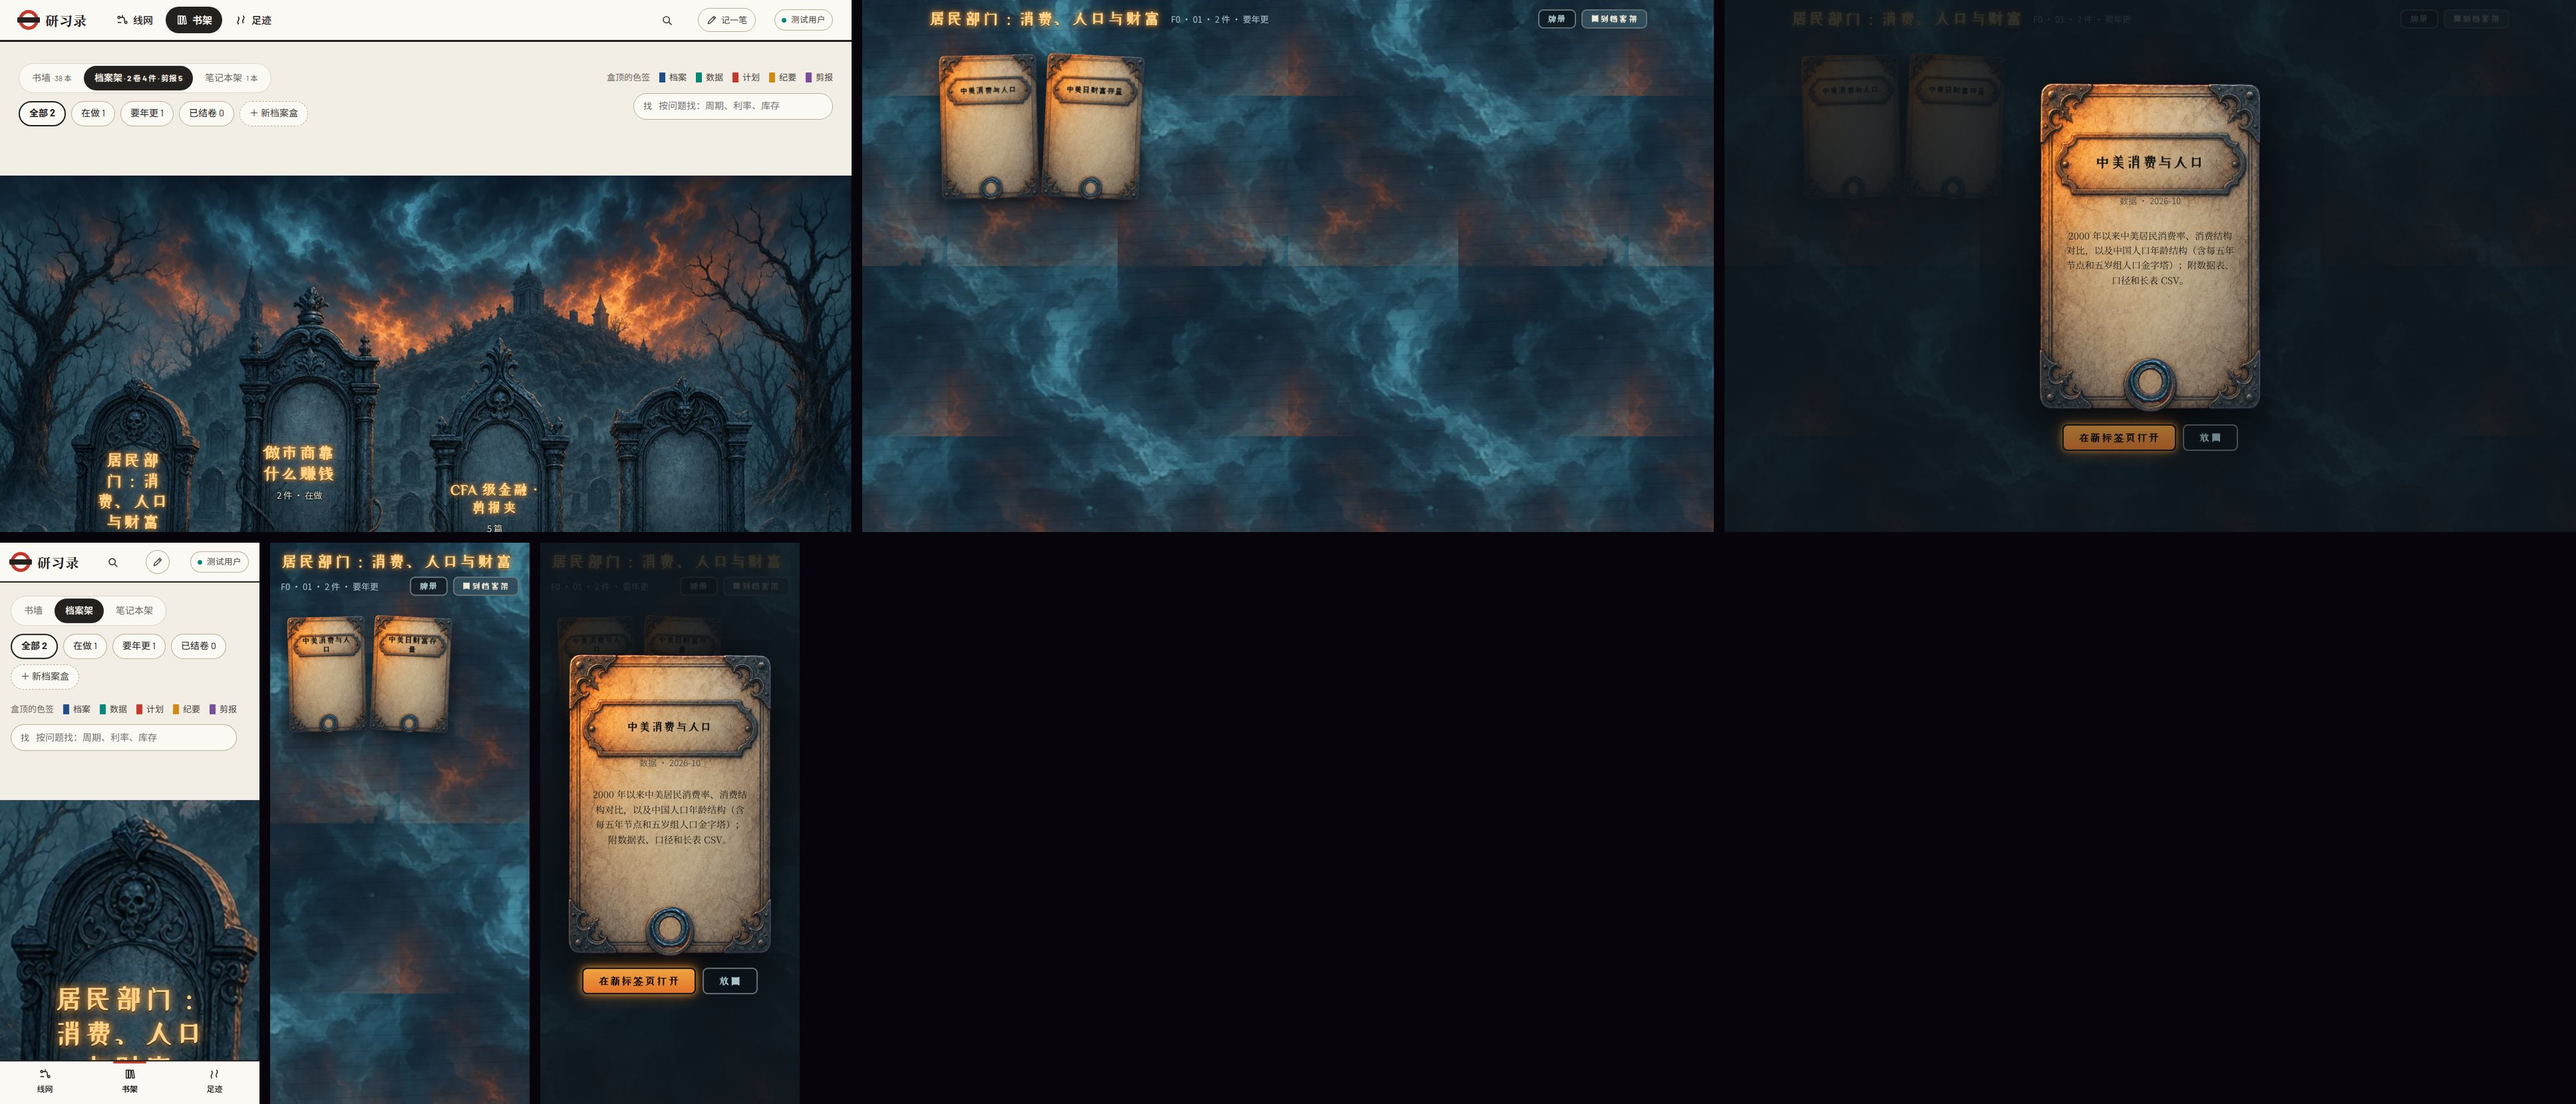
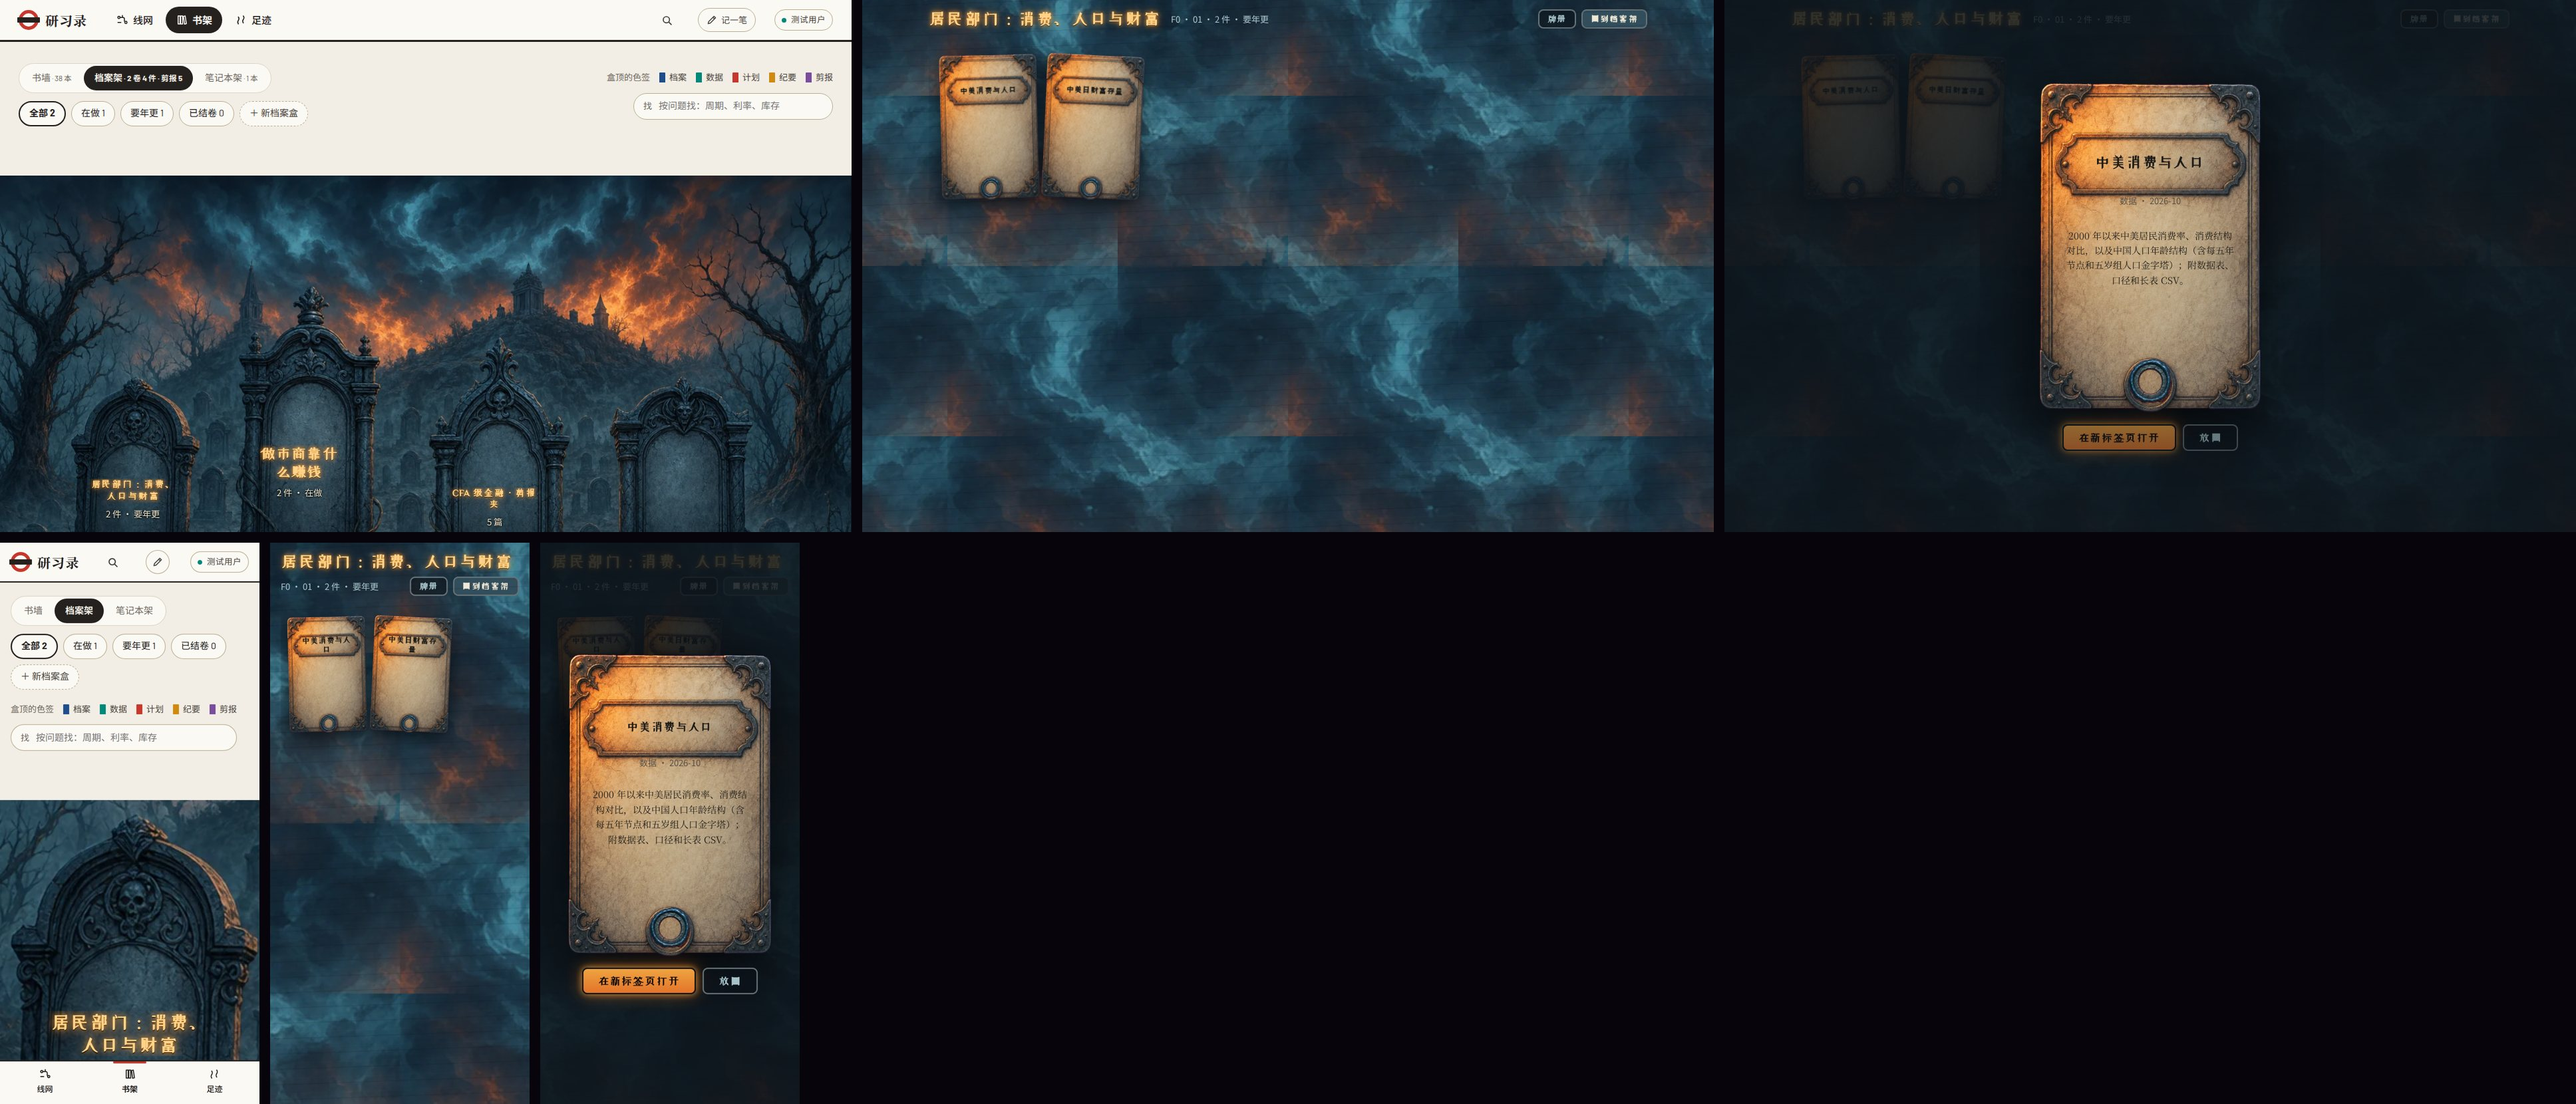
碑面刻名按字数缩字号，截图重出

diff --git a/dist/artifact.html b/dist/artifact.html
@@ -10694,7 +10694,8 @@ var FOIL = (function () {
     var top = narrow ? YX.arch.band[0] : 0, bh = narrow ? YX.arch.band[1] : YX.scene.h;
     function stone(st, j) {
       var p = P[j];
-      return '<button type="button" class="yx-stone' + (st.folder ? " folder" : "") + '" data-act="abox" data-t="' + esc(st.t) + '" style="left:' + p[0] + "px;top:" + (p[1] - top) + "px;width:" + (p[2] - p[0]) + "px;height:" + (p[3] - p[1]) + "px;--i:" + (n++) + '"><span class="yx-stone-n">' + esc(st.name) + '</span><span class="yx-stone-s">' + esc(st.sub) + "</span></button>";
+      var L = String(st.name).length, fs = L <= 4 ? 32 : L <= 8 ? 26 : L <= 12 ? 21 : 17;
+      return '<button type="button" class="yx-stone' + (st.folder ? " folder" : "") + '" data-act="abox" data-t="' + esc(st.t) + '" style="left:' + p[0] + "px;top:" + (p[1] - top) + "px;width:" + (p[2] - p[0]) + "px;height:" + (p[3] - p[1]) + "px;--i:" + (n++) + '"><span class="yx-stone-n" style="font-size:' + fs + 'px">' + esc(st.name) + '</span><span class="yx-stone-s">' + esc(st.sub) + "</span></button>";
     }
     var html = blocks.map(function (bl) {
       var cab = '<div class="yx-cab arch" data-bh="' + bh + '" style="width:' + YX.scene.w + "px;height:" + bh + "px;background-position:0 -" + top + 'px">' + bl.map(stone).join("") + "</div>";

diff --git a/index.html b/index.html
@@ -10702,7 +10702,8 @@ var FOIL = (function () {
     var top = narrow ? YX.arch.band[0] : 0, bh = narrow ? YX.arch.band[1] : YX.scene.h;
     function stone(st, j) {
       var p = P[j];
-      return '<button type="button" class="yx-stone' + (st.folder ? " folder" : "") + '" data-act="abox" data-t="' + esc(st.t) + '" style="left:' + p[0] + "px;top:" + (p[1] - top) + "px;width:" + (p[2] - p[0]) + "px;height:" + (p[3] - p[1]) + "px;--i:" + (n++) + '"><span class="yx-stone-n">' + esc(st.name) + '</span><span class="yx-stone-s">' + esc(st.sub) + "</span></button>";
+      var L = String(st.name).length, fs = L <= 4 ? 32 : L <= 8 ? 26 : L <= 12 ? 21 : 17;
+      return '<button type="button" class="yx-stone' + (st.folder ? " folder" : "") + '" data-act="abox" data-t="' + esc(st.t) + '" style="left:' + p[0] + "px;top:" + (p[1] - top) + "px;width:" + (p[2] - p[0]) + "px;height:" + (p[3] - p[1]) + "px;--i:" + (n++) + '"><span class="yx-stone-n" style="font-size:' + fs + 'px">' + esc(st.name) + '</span><span class="yx-stone-s">' + esc(st.sub) + "</span></button>";
     }
     var html = blocks.map(function (bl) {
       var cab = '<div class="yx-cab arch" data-bh="' + bh + '" style="width:' + YX.scene.w + "px;height:" + bh + "px;background-position:0 -" + top + 'px">' + bl.map(stone).join("") + "</div>";

diff --git a/server/index.html b/server/index.html
@@ -10849,7 +10849,8 @@ var FOIL = (function () {
     var top = narrow ? YX.arch.band[0] : 0, bh = narrow ? YX.arch.band[1] : YX.scene.h;
     function stone(st, j) {
       var p = P[j];
-      return '<button type="button" class="yx-stone' + (st.folder ? " folder" : "") + '" data-act="abox" data-t="' + esc(st.t) + '" style="left:' + p[0] + "px;top:" + (p[1] - top) + "px;width:" + (p[2] - p[0]) + "px;height:" + (p[3] - p[1]) + "px;--i:" + (n++) + '"><span class="yx-stone-n">' + esc(st.name) + '</span><span class="yx-stone-s">' + esc(st.sub) + "</span></button>";
+      var L = String(st.name).length, fs = L <= 4 ? 32 : L <= 8 ? 26 : L <= 12 ? 21 : 17;
+      return '<button type="button" class="yx-stone' + (st.folder ? " folder" : "") + '" data-act="abox" data-t="' + esc(st.t) + '" style="left:' + p[0] + "px;top:" + (p[1] - top) + "px;width:" + (p[2] - p[0]) + "px;height:" + (p[3] - p[1]) + "px;--i:" + (n++) + '"><span class="yx-stone-n" style="font-size:' + fs + 'px">' + esc(st.name) + '</span><span class="yx-stone-s">' + esc(st.sub) + "</span></button>";
     }
     var html = blocks.map(function (bl) {
       var cab = '<div class="yx-cab arch" data-bh="' + bh + '" style="width:' + YX.scene.w + "px;height:" + bh + "px;background-position:0 -" + top + 'px">' + bl.map(stone).join("") + "</div>";

diff --git a/src/app.js b/src/app.js
@@ -5718,7 +5718,8 @@ var FOIL = (function () {
     var top = narrow ? YX.arch.band[0] : 0, bh = narrow ? YX.arch.band[1] : YX.scene.h;
     function stone(st, j) {
       var p = P[j];
-      return '<button type="button" class="yx-stone' + (st.folder ? " folder" : "") + '" data-act="abox" data-t="' + esc(st.t) + '" style="left:' + p[0] + "px;top:" + (p[1] - top) + "px;width:" + (p[2] - p[0]) + "px;height:" + (p[3] - p[1]) + "px;--i:" + (n++) + '"><span class="yx-stone-n">' + esc(st.name) + '</span><span class="yx-stone-s">' + esc(st.sub) + "</span></button>";
+      var L = String(st.name).length, fs = L <= 4 ? 32 : L <= 8 ? 26 : L <= 12 ? 21 : 17;
+      return '<button type="button" class="yx-stone' + (st.folder ? " folder" : "") + '" data-act="abox" data-t="' + esc(st.t) + '" style="left:' + p[0] + "px;top:" + (p[1] - top) + "px;width:" + (p[2] - p[0]) + "px;height:" + (p[3] - p[1]) + "px;--i:" + (n++) + '"><span class="yx-stone-n" style="font-size:' + fs + 'px">' + esc(st.name) + '</span><span class="yx-stone-s">' + esc(st.sub) + "</span></button>";
     }
     var html = blocks.map(function (bl) {
       var cab = '<div class="yx-cab arch" data-bh="' + bh + '" style="width:' + YX.scene.w + "px;height:" + bh + "px;background-position:0 -" + top + 'px">' + bl.map(stone).join("") + "</div>";

diff --git a/sw.js b/sw.js
@@ -2,7 +2,7 @@
  * 就像装了个 App，地铁里没网也能打开翻剪报、看进度（记录的读写照常走网络）。
  * /api/、/_blob/（电子书文件）、登录相关从不缓存。
  * 版本号由 build.py 盖进来：页面一发新版，旧缓存整个换掉。 */
-var V = "yxl-3204088159";
+var V = "yxl-de82ff8132";
 self.addEventListener("install", function () { self.skipWaiting(); });
 self.addEventListener("activate", function (e) {
   e.waitUntil(caches.keys().then(function (ks) {
